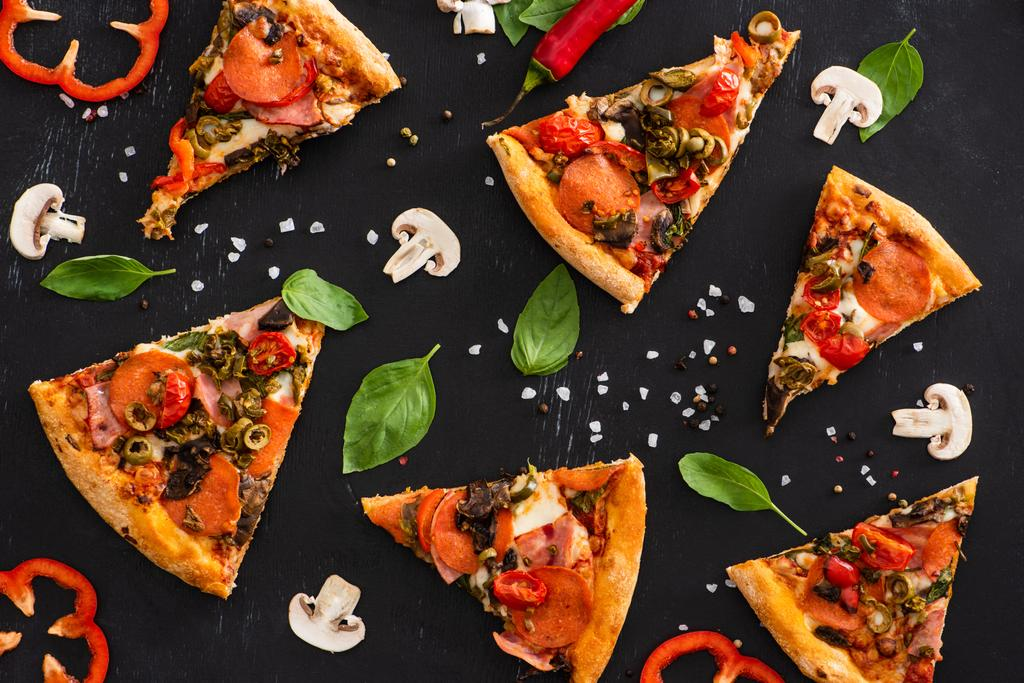
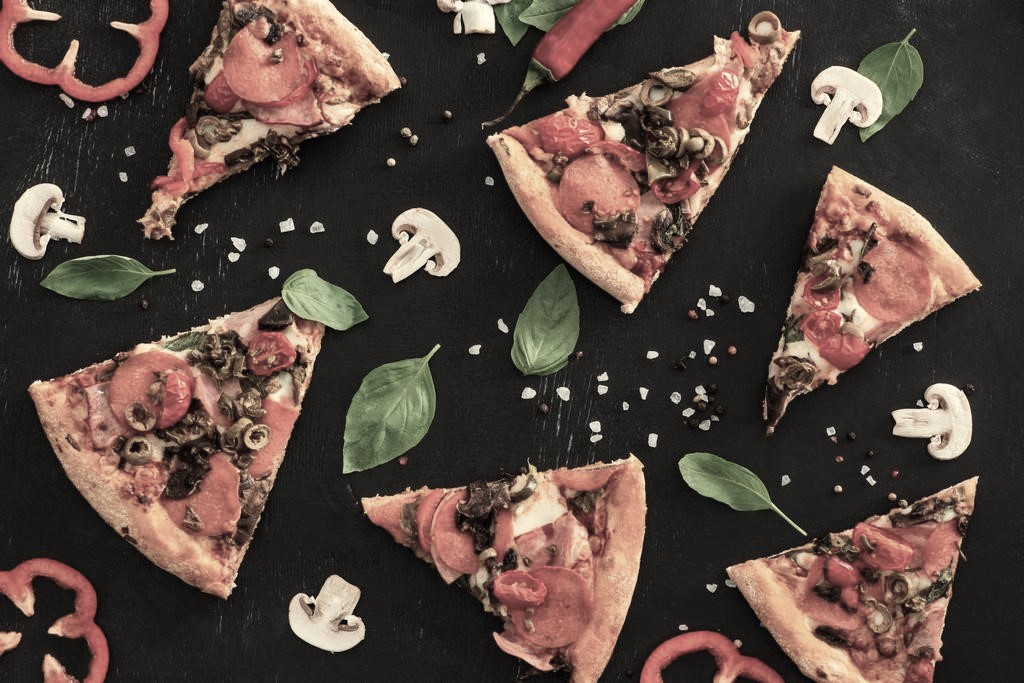
retoques

diff --git a/index.html b/index.html
@@ -49,7 +49,7 @@
     </nav>
 
     <header id="welcome">
-        <div class="welcome-img"><!-- !!!!!!!! -->
+        <div class="welcome-img">
             <img src="./assets/IMG/LogotipoFINAL.png" alt="" />
         </div>
     </header>
@@ -69,7 +69,7 @@
                 <div class="restaurante" onclick="addClickEventToRestaurante()">
                     <div class="restaurante-info">
                         <div class="restaurante-info-line">
-                            <p>VICENZO</p>
+                            <p class="restaurante-titulo">VICENZO</p>
                         </div>
                         <div class="restaurante-info-line">
                             <p>Restaurante localizado em Belém, caracterizado pela harmonia musical e artística em seu ambiente.</p>
@@ -78,49 +78,49 @@
                             <div>
                                 <i class="fa-solid fa-location-dot"></i>
                             </div>
-                            <p>38.69749152604757, -9.19836457062974</p>
+                            <p class="restaurante-cord">38.69749152604757, -9.19836457062974</p>
                         </div>
                     </div>
                 </div>
                 <div class="restaurante" onclick="addClickEventToRestaurante()">
                     <div class="restaurante-info">
                         <div class="restaurante-info-line">
-                            <p>VICENZO Bellagio</p>
-                        </div>
-                        <div class="restaurante-info-line">
-                            <p>Restaurante localizado nas ruas do Chiado, conhecido pela decoração baseada nas cidades remotas do sul de Itália.</p>
-                        </div>
-                        <div class="restaurante-info-line">
-                            <i class="fa-solid fa-location-dot"></i>
-                            <p>38.71033382763659, -9.143723484713014</p>
-                        </div>
-                    </div>
-                </div>
-                <div class="restaurante" onclick="addClickEventToRestaurante()">
-                    <div class="restaurante-info">
-                        <div class="restaurante-info-line">
-                            <p>VICENZO Treviso</p>
-                        </div>
-                        <div class="restaurante-info-line">
-                            <p>Restaurante localizado na ribeira do Porto, relembra as memorias do passado com um ambiente histórico e nostálgico.</p>
-                        </div>
-                        <div class="restaurante-info-line">
-                            <i class="fa-solid fa-location-dot"></i>
-                            <p>41.14059050435171, -8.612020266310845</p>
-                        </div>
-                    </div>
-                </div>
-                <div class="restaurante" onclick="addClickEventToRestaurante()">
-                    <div class="restaurante-info">
-                        <div class="restaurante-info-line">
-                            <p>VICENZO Salento</p>
+                            <p class="restaurante-titulo">VICENZO Bellagio</p>
                         </div>
                         <div class="restaurante-info-line">
                             <p>Restaurante localizado no coração da ilha da madeira, com um ambiente tropical e paradisíaco com vista para o mar.</p>
                         </div>
                         <div class="restaurante-info-line">
                             <i class="fa-solid fa-location-dot"></i>
-                            <p>32.64694702236774, -16.89723314702916</p>
+                            <p class="restaurante-cord">32.64694702236774, -16.89723314702916</p>
+                        </div>
+                    </div>
+                </div>
+                <div class="restaurante" onclick="addClickEventToRestaurante()">
+                    <div class="restaurante-info">
+                        <div class="restaurante-info-line">
+                            <p class="restaurante-titulo">VICENZO Treviso</p>
+                        </div>
+                        <div class="restaurante-info-line">
+                            <p>Restaurante localizado na ribeira do Porto, relembra as memorias do passado com um ambiente histórico e nostálgico.</p>
+                        </div>
+                        <div class="restaurante-info-line">
+                            <i class="fa-solid fa-location-dot"></i>
+                            <p class="restaurante-cord">41.14059050435171, -8.612020266310845</p>
+                        </div>
+                    </div>
+                </div>
+                <div class="restaurante" onclick="addClickEventToRestaurante()">
+                    <div class="restaurante-info">
+                        <div class="restaurante-info-line">
+                            <p class="restaurante-titulo">VICENZO Salento</p>
+                        </div>
+                        <div class="restaurante-info-line">
+                            <p>Restaurante localizado nas ruas do Chiado, conhecido pela decoração baseada nas cidades remotas do sul de Itália.</p>
+                        </div>
+                        <div class="restaurante-info-line">
+                            <i class="fa-solid fa-location-dot"></i>
+                            <p class="restaurante-cord">38.71033382763659, -9.143723484713014</p>
                         </div>
                     </div>
                 </div>

diff --git a/evoucher.html b/evoucher.html
@@ -54,23 +54,19 @@
                     <input type="text" name="nome" id="nome" placeholder="John Doe" required autofocus />
                 </div>
                 <div class="input-field">
-                    <label for="telefone">
-                        Telefone
-                    </label>
-                    <input type="tel" name="telefone" id="telefone" placeholder="+351 987 654 321" required />
-                </div>
-                <div class="input-field">
                     <label for="email">
                         E-mail
                         <span class="text-colored">*</span>
                     </label>
                     <input type="email" name="email" id="email" placeholder="johndoe@example.com" required />
                 </div>
+                <div class="input-field">
+                    <label for="telefone">
+                        Telefone
+                    </label>
+                    <input type="tel" name="telefone" id="telefone" placeholder="+351 987 654 321"/>
+                </div>
                 <div class="input-field flex-wrap" id="evoucher-dest">
-                    <!-- <div class="flex-wrap-child">
-                        <input type="checkbox" id="oferta1" name="oferta">
-                        <label for="oferta1">Para mim</label>
-                    </div> -->
                     <div class="flex-wrap-child">
                         <input type="checkbox" id="oferta" name="oferta" onchange="controllerVoucherDest()">
                         <label for="oferta2">Para oferta</label>
@@ -81,8 +77,15 @@
                     <div id="voucher-wrapper" class="flex-wrap"></div>
                 </div>
                 <div class="input-field hidden" id="nome_dest_div">
-                    <label for="nome_dest">Destinatário</label>
+                    <label for="nome_dest">
+                        Destinatário
+                        <span class="text-colored">*</span>
+                    </label>
                     <input type="text" name="nome_dest" id="nome_dest" placeholder="John Doe">
+                </div>
+                <div class="input-field hidden" id="msg_dest_div">
+                    <label for="msg_dest">Mensagem</label>
+                    <textarea name="msg_dest" id="msg_dest" rows="5" placeholder="Escreva aqui uma mensagem para quem vai ofercer o e-Voucher"></textarea>
                 </div>
                 <div class="form-submit">
                     <button type="reset" class="btn rounded sombra">Limpar</button>

diff --git a/assets/scripts/main.js b/assets/scripts/main.js
@@ -30,7 +30,7 @@ addClickEventToRestaurante();
 // Função para renderizar os vouchers
 function renderVouchers() {
     // Valores dos vouchers
-    let values = [ 15, 20, 30, 40, 50, 60, 80, 100, 150, 200 ];
+    let values = [50, 75, 100, 125, 150, 200, 300];
 
     // Buscar o container dos vouchers
     let container = document.getElementById('voucher-wrapper');
@@ -64,13 +64,22 @@ function controllerVoucherDest() {
     // Buscar o nome do destinatário + div
     let dest = document.getElementById('nome_dest');
     let dest_div = document.getElementById('nome_dest_div');
-
+    
     if(input.checked) {
         dest_div.classList.remove('hidden');
         dest.setAttribute('required', '');
     } else {
         dest_div.classList.add('hidden');
         dest.removeAttribute('required');
+    }
+    
+    // Buscar a mensagem para o destinatário + div
+    let msgdest_div = document.getElementById('msg_dest_div');
+
+    if(input.checked) {
+        msgdest_div.classList.remove('hidden');
+    } else {
+        msgdest_div.classList.add('hidden');
     }
 }
 

diff --git a/assets/styles/main.css b/assets/styles/main.css
@@ -226,12 +226,11 @@ nav ul {
     background-size: cover;
     background-position: center;
     background-repeat: no-repeat;
-    filter: saturate(0.5);
     display: grid;
-    place-items: center;/* !!!!!!!!!!!!!!! */
+    place-items: center;
 }
 
-#welcome-img {min-width: 300px; filter: saturate(1)}
+#welcome-img {min-width: 300px}
 
 /* Logo */
 .logo {
@@ -313,11 +312,15 @@ nav ul {
 .restaurante-info-line {
     display: flex;
     align-items: center;
-    gap: 1rem;
+    gap: .1rem;
     font-weight: 500;
 }
 
-.restaurante-info-line i {font-size: 1.25rem}
+.restaurante-info-line i {font-size: 1rem}
+
+.restaurante-titulo {font-size: 1.5rem}
+
+.restaurante-cord {font-size: .9rem}
 
 .restaurante-info-line p {
     width: 100%;

diff --git a/reserva.html b/reserva.html
@@ -53,10 +53,10 @@
                     </label>
                     <br>
                     <select class="option-rest" name="restaurant">
-                        <option value="1">Lorem.</option>
-                        <option value="2">Lorem.</option>
-                        <option value="3">Lorem.</option>
-                        <option value="4">Lorem.</option>
+                        <option value="1">VICENZO</option>
+                        <option value="2">VICENZO Bellagio</option>
+                        <option value="3">VICENZO Treviso</option>
+                        <option value="4">VICENZO Salento</option>
                     </select>
                 </div>
                 <div class="flex-wrap">
